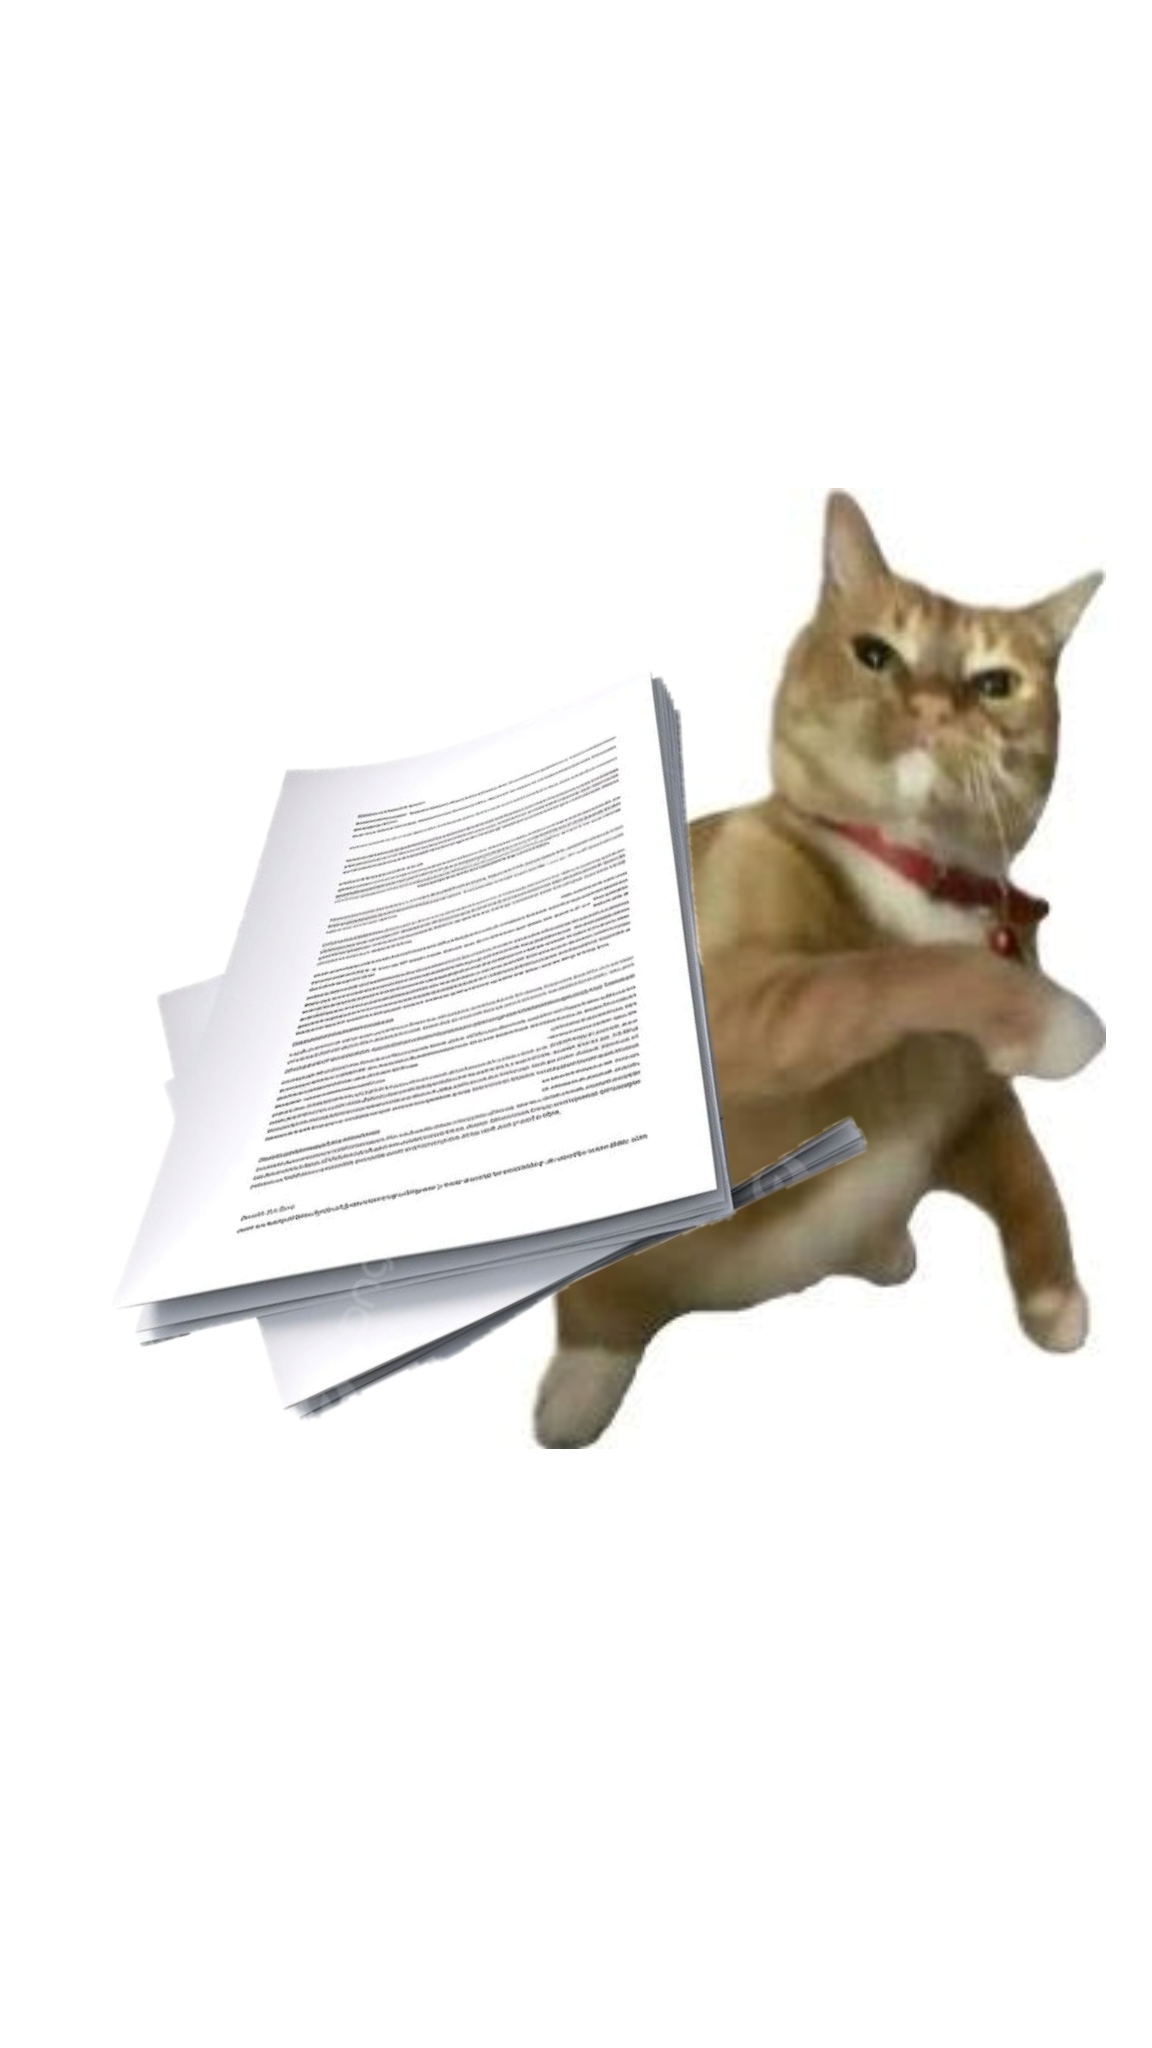
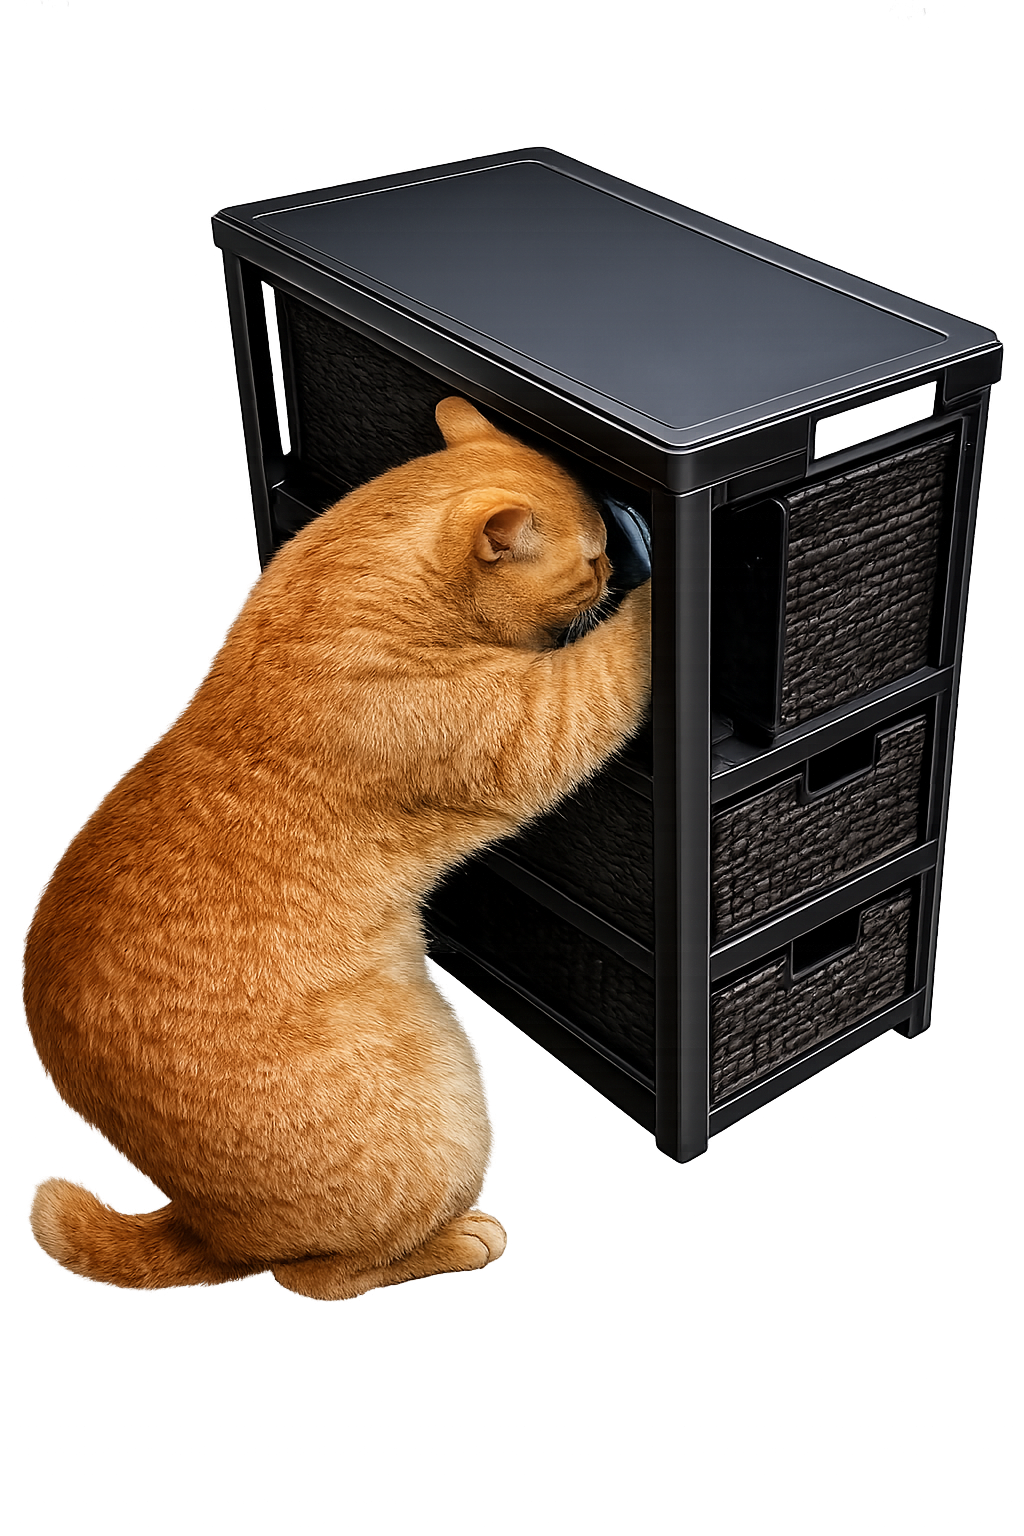
feat: ui — transparent cutout art + hover motion
Swap to the no-background (transparent) illustrations and cat memes. Cat memes
are now frameless cutouts (contain, drop-shadow, no white border) peeking off
the résumé cards, remapped to .png. On hover, the tile character lifts and tilts
and the cat cutout nudges up — both with a springy transition.

diff --git a/frontend/static/style.css b/frontend/static/style.css
@@ -250,21 +250,23 @@ input:focus { border-color: var(--accent); }
   border-radius: 14px; padding: 16px; margin-bottom: 10px;
   position: relative;
 }
-/* A cat-meme sticker peeking off the right edge, tilted */
+/* A cat-meme cutout peeking off the right edge, tilted; nudges on hover */
 .resume-card::after {
   content: ""; position: absolute; z-index: 3;
-  width: 92px; height: 92px;
-  background-size: cover; background-position: center;
-  border: 3px solid #fff; border-radius: 10px;
-  box-shadow: 0 8px 18px rgba(0,0,0,.5);
+  width: 124px; height: 112px;
+  background-size: contain; background-repeat: no-repeat; background-position: center;
+  filter: drop-shadow(0 6px 10px rgba(0,0,0,.45));
   pointer-events: none;
+  transform: rotate(var(--rot, 0deg));
+  transition: transform .3s cubic-bezier(.34, 1.56, .64, 1);
 }
-#resume-cards .resume-card:nth-child(6n+1)::after { background-image: url('/assets/resume-memes/1.jpg'); right: -20px; top: 16px;  transform: rotate(-10deg); }
-#resume-cards .resume-card:nth-child(6n+2)::after { background-image: url('/assets/resume-memes/2.png'); right: -20px; bottom: 16px; transform: rotate(9deg); }
-#resume-cards .resume-card:nth-child(6n+3)::after { background-image: url('/assets/resume-memes/3.jpg'); right: -18px; top: 38%; transform: rotate(16deg); }
-#resume-cards .resume-card:nth-child(6n+4)::after { background-image: url('/assets/resume-memes/4.jpg'); right: -22px; bottom: 14px; transform: rotate(-15deg); }
-#resume-cards .resume-card:nth-child(6n+5)::after { background-image: url('/assets/resume-memes/5.jpg'); right: -18px; top: 14px;  transform: rotate(7deg); }
-#resume-cards .resume-card:nth-child(6n)::after   { background-image: url('/assets/resume-memes/6.jpg'); right: -24px; top: 40%; transform: rotate(-20deg); }
+.resume-card:hover::after { transform: rotate(var(--rot, 0deg)) translateY(-9px) scale(1.1); }
+#resume-cards .resume-card:nth-child(6n+1)::after { --rot: -10deg; background-image: url('/assets/resume-memes/1.png'); right: -26px; top: 8px; }
+#resume-cards .resume-card:nth-child(6n+2)::after { --rot: 9deg;   background-image: url('/assets/resume-memes/2.png'); right: -26px; bottom: 4px; }
+#resume-cards .resume-card:nth-child(6n+3)::after { --rot: 16deg;  background-image: url('/assets/resume-memes/3.png'); right: -22px; top: 30%; }
+#resume-cards .resume-card:nth-child(6n+4)::after { --rot: -15deg; background-image: url('/assets/resume-memes/4.png'); right: -28px; bottom: 2px; }
+#resume-cards .resume-card:nth-child(6n+5)::after { --rot: 7deg;   background-image: url('/assets/resume-memes/5.png'); right: -24px; top: 4px; }
+#resume-cards .resume-card:nth-child(6n)::after   { --rot: -20deg; background-image: url('/assets/resume-memes/6.png'); right: -30px; top: 34%; }
 #resume-cards .resume-card:nth-child(6n+1) { background-color: var(--yellow); }
 #resume-cards .resume-card:nth-child(6n+2) { background-color: var(--green); }
 #resume-cards .resume-card:nth-child(6n+3) { background-color: var(--pink); }
@@ -358,7 +360,9 @@ input:focus { border-color: var(--accent); }
 .tile-hero img {
   max-height: 100%; max-width: 100%; object-fit: contain;
   filter: drop-shadow(0 8px 16px rgba(0,0,0,.35));
+  transition: transform .3s cubic-bezier(.34, 1.56, .64, 1);
 }
+.listing-card:hover .tile-hero img { transform: translateY(-10px) rotate(-4deg) scale(1.06); }
 .tile-body { display: flex; flex-direction: column; gap: 3px; margin-top: auto; }
 .tile-title {
   font-weight: 700; font-size: 16px; line-height: 1.25;

diff --git a/frontend/index.html b/frontend/index.html
@@ -7,7 +7,7 @@
   <link rel="preconnect" href="https://fonts.googleapis.com" />
   <link rel="preconnect" href="https://fonts.gstatic.com" crossorigin />
   <link href="https://fonts.googleapis.com/css2?family=Space+Grotesk:wght@400;500;600;700&family=Inter:wght@400;500;600&display=swap" rel="stylesheet" />
-  <link rel="stylesheet" href="/static/style.css?v=23" />
+  <link rel="stylesheet" href="/static/style.css?v=24" />
 </head>
 <body>
   <div class="app">
@@ -116,6 +116,6 @@
     </div>
   </div>
 
-  <script src="/static/app.js?v=23"></script>
+  <script src="/static/app.js?v=24"></script>
 </body>
 </html>